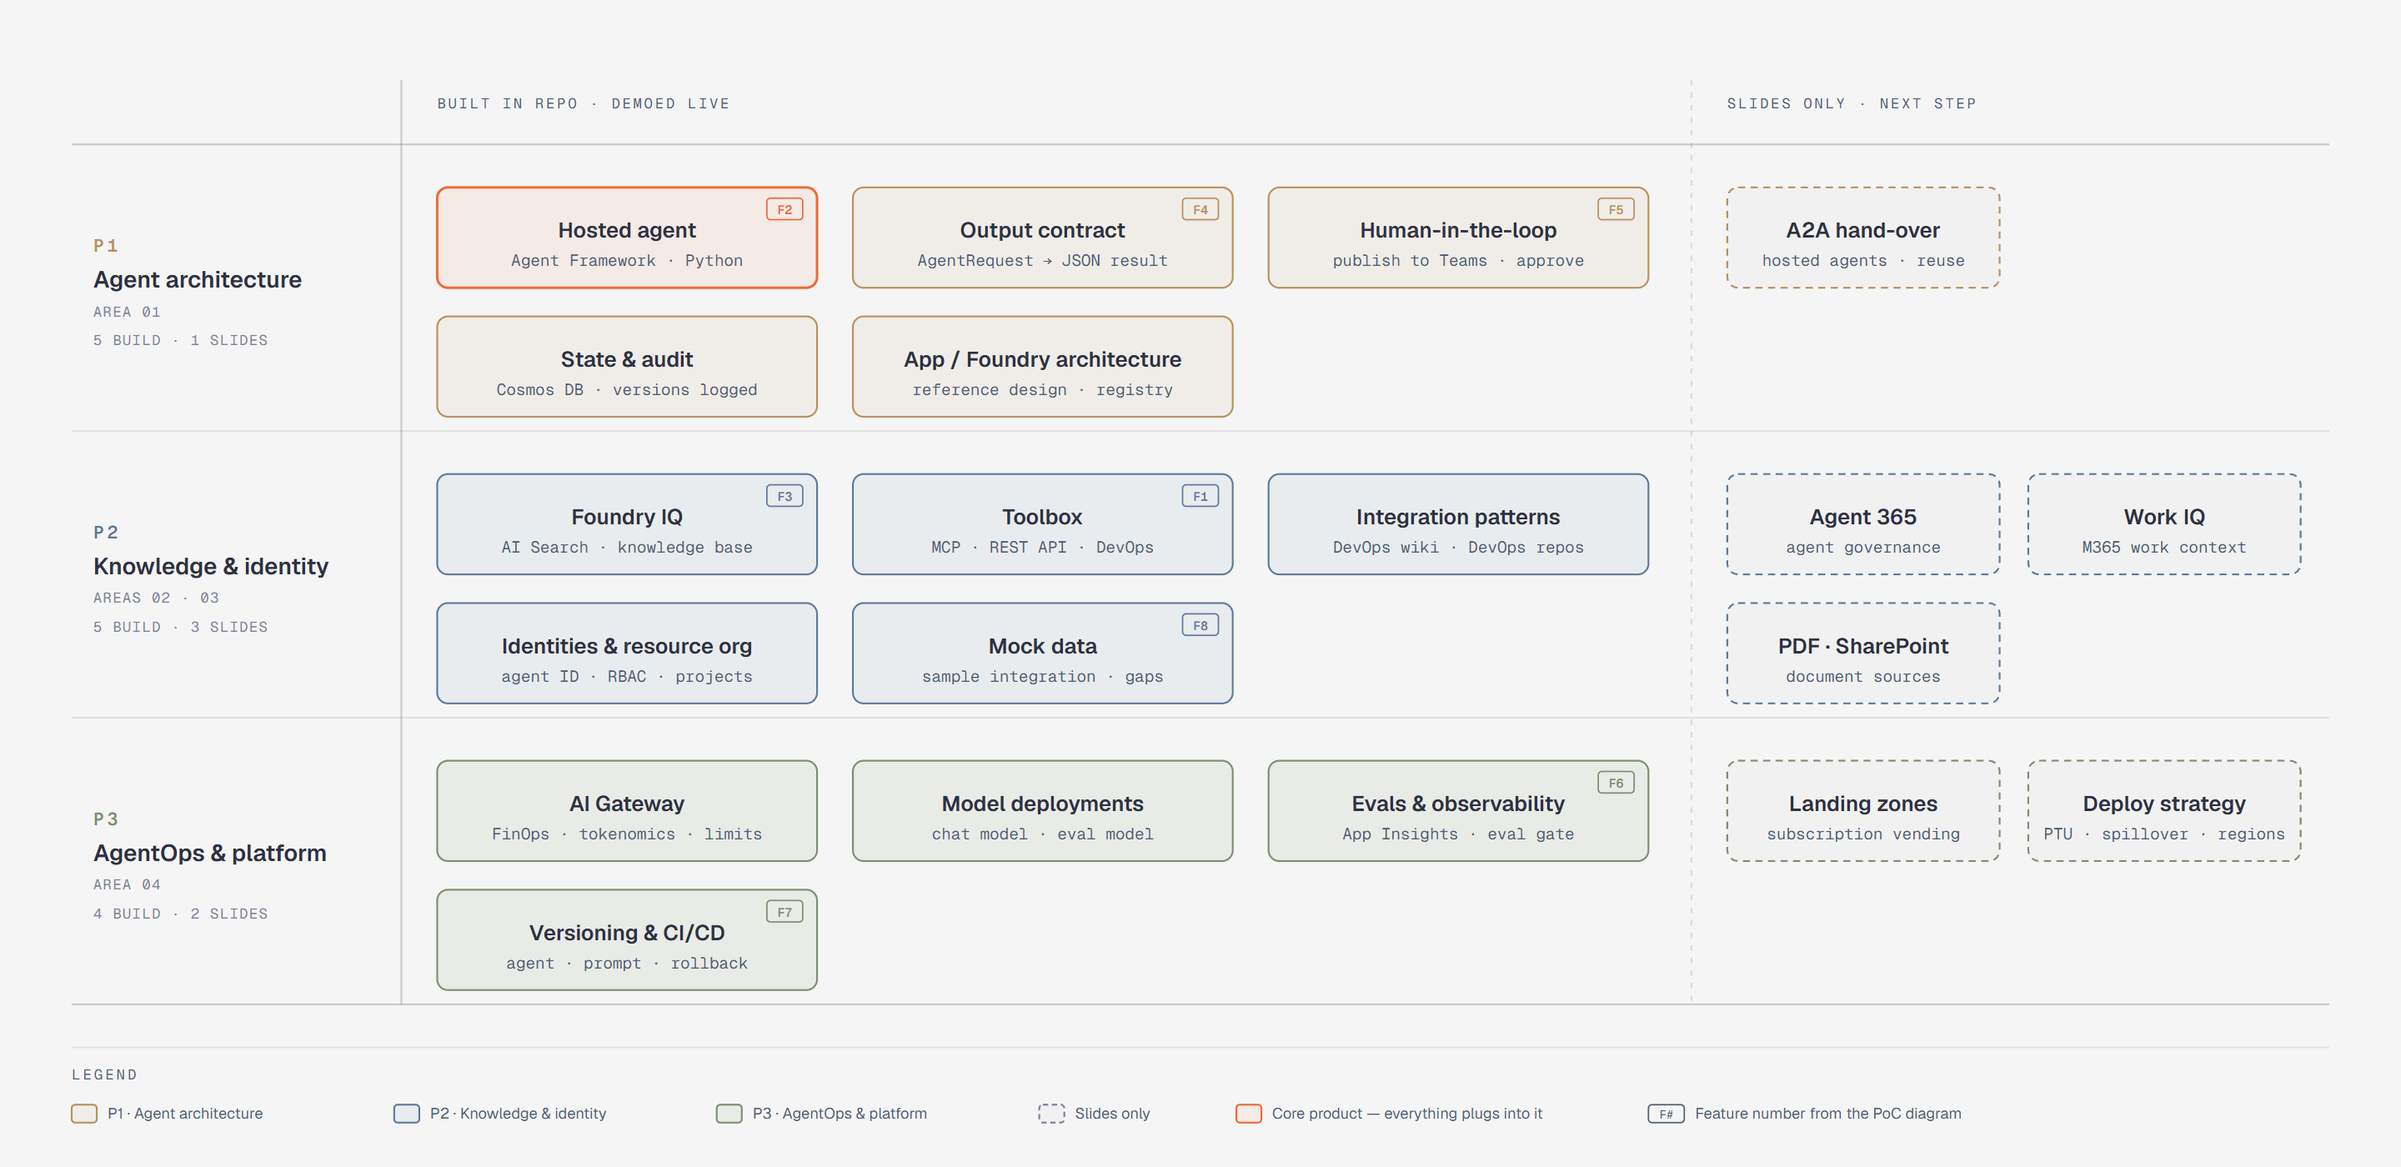
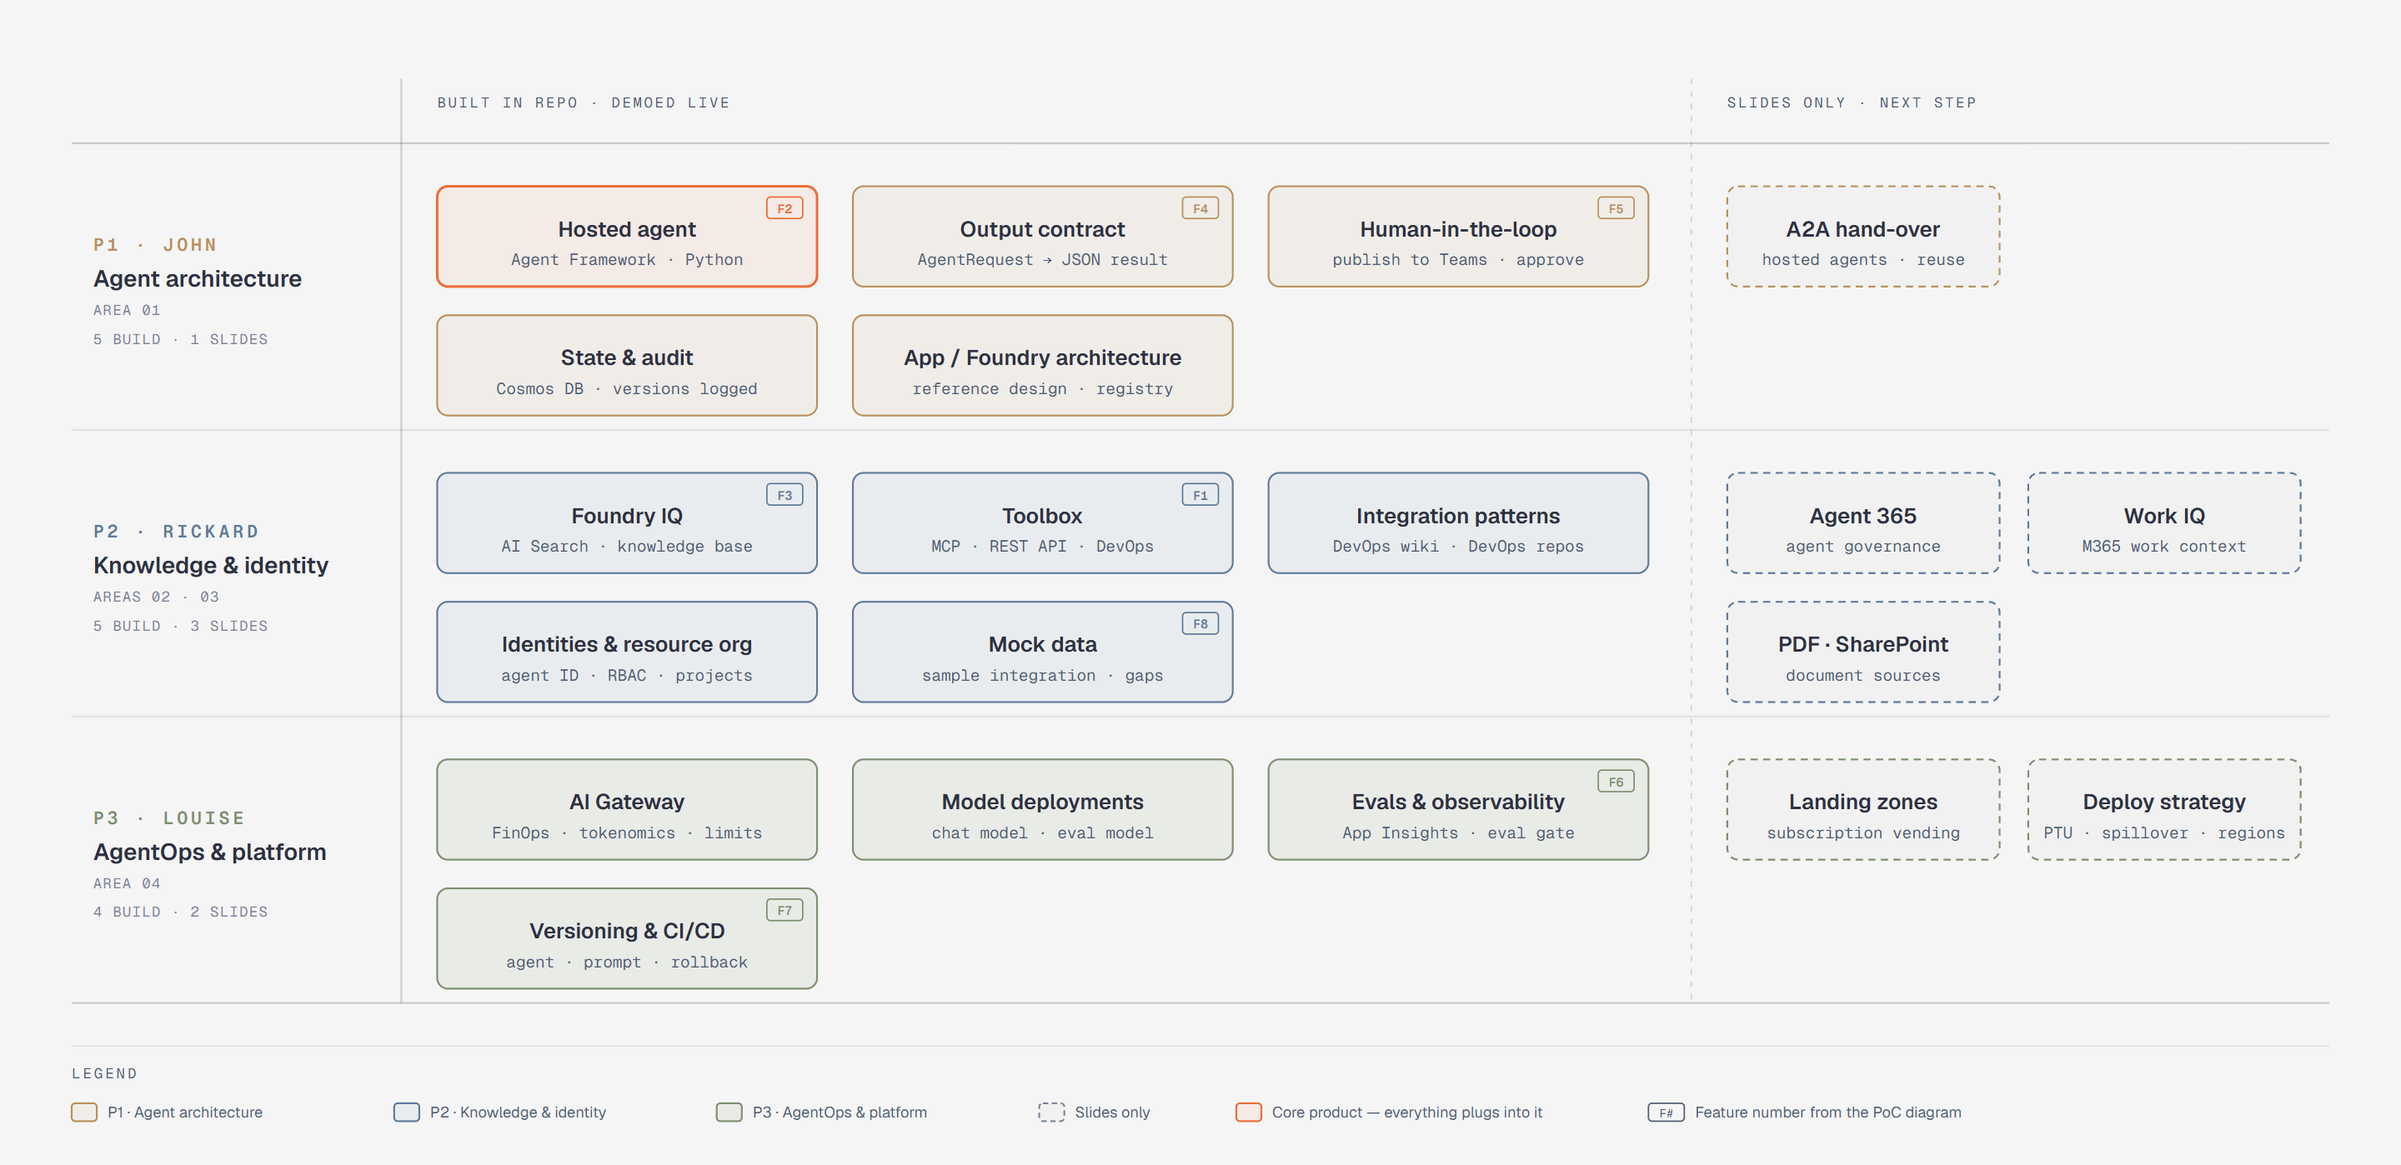
docs: name swimlane owners (P1 John, P2 Rickard, P3 Louise)
Fill CODEOWNERS with real handles, name owners in ADR 0017, the
feature map, agenda, risks, area READMEs, README and the swimlane
diagram (HTML + re-rendered PNG).

Copilot-Session: 4466360d-f2b7-457a-87e8-3b3d5c88d671

diff --git a/docs/diagrams/feature-swimlanes.html b/docs/diagrams/feature-swimlanes.html
@@ -65,7 +65,7 @@
       <line x1="40" y1="560" x2="1300" y2="560" stroke="rgba(45,49,66,0.22)" stroke-width="1"/>
       <line x1="224" y1="44" x2="224" y2="560" stroke="rgba(45,49,66,0.22)" stroke-width="1"/>
       <line x1="944" y1="44" x2="944" y2="560" stroke="rgba(45,49,66,0.14)" stroke-width="1" stroke-dasharray="3,4"/>
-      <text x="52" y="140" fill="#b8915a" font-size="10" font-weight="600" font-family="'Geist Mono', monospace" letter-spacing="0.18em">P1</text>
+      <text x="52" y="140" fill="#b8915a" font-size="10" font-weight="600" font-family="'Geist Mono', monospace" letter-spacing="0.18em">P1 · JOHN</text>
       <text x="52" y="160" fill="#2d3142" font-size="13" font-weight="600" font-family="'Geist', sans-serif">Agent architecture</text>
       <text x="52" y="176" fill="#7a8399" font-size="8" font-family="'Geist Mono', monospace" letter-spacing="0.08em">AREA 01</text>
       <text x="52" y="192" fill="#7a8399" font-size="8" font-family="'Geist Mono', monospace" letter-spacing="0.08em">5 BUILD · 1 SLIDES</text>
@@ -99,7 +99,7 @@
       <rect x="964" y="104" width="152" height="56" rx="6" fill="rgba(45,49,66,0.02)" stroke="#b8915a" stroke-width="1" stroke-dasharray="4,3"/>
       <text x="1040.0" y="132" fill="#2d3142" font-size="12" font-weight="600" font-family="'Geist', sans-serif" text-anchor="middle">A2A hand-over</text>
       <text x="1040.0" y="148" fill="#4f5d75" font-size="9" font-family="'Geist Mono', monospace" text-anchor="middle">hosted agents · reuse</text>
-      <text x="52" y="300" fill="#5e7a9b" font-size="10" font-weight="600" font-family="'Geist Mono', monospace" letter-spacing="0.18em">P2</text>
+      <text x="52" y="300" fill="#5e7a9b" font-size="10" font-weight="600" font-family="'Geist Mono', monospace" letter-spacing="0.18em">P2 · RICKARD</text>
       <text x="52" y="320" fill="#2d3142" font-size="13" font-weight="600" font-family="'Geist', sans-serif">Knowledge &amp; identity</text>
       <text x="52" y="336" fill="#7a8399" font-size="8" font-family="'Geist Mono', monospace" letter-spacing="0.08em">AREAS 02 · 03</text>
       <text x="52" y="352" fill="#7a8399" font-size="8" font-family="'Geist Mono', monospace" letter-spacing="0.08em">5 BUILD · 3 SLIDES</text>
@@ -141,7 +141,7 @@
       <rect x="964" y="336" width="152" height="56" rx="6" fill="rgba(45,49,66,0.02)" stroke="#5e7a9b" stroke-width="1" stroke-dasharray="4,3"/>
       <text x="1040.0" y="364" fill="#2d3142" font-size="12" font-weight="600" font-family="'Geist', sans-serif" text-anchor="middle">PDF · SharePoint</text>
       <text x="1040.0" y="380" fill="#4f5d75" font-size="9" font-family="'Geist Mono', monospace" text-anchor="middle">document sources</text>
-      <text x="52" y="460" fill="#7c8f6f" font-size="10" font-weight="600" font-family="'Geist Mono', monospace" letter-spacing="0.18em">P3</text>
+      <text x="52" y="460" fill="#7c8f6f" font-size="10" font-weight="600" font-family="'Geist Mono', monospace" letter-spacing="0.18em">P3 · LOUISE</text>
       <text x="52" y="480" fill="#2d3142" font-size="13" font-weight="600" font-family="'Geist', sans-serif">AgentOps &amp; platform</text>
       <text x="52" y="496" fill="#7a8399" font-size="8" font-family="'Geist Mono', monospace" letter-spacing="0.08em">AREA 04</text>
       <text x="52" y="512" fill="#7a8399" font-size="8" font-family="'Geist Mono', monospace" letter-spacing="0.08em">4 BUILD · 2 SLIDES</text>

diff --git a/docs/workshop/agenda.md b/docs/workshop/agenda.md
@@ -7,30 +7,30 @@
 The agenda follows the three **swimlanes** in the [feature map](feature-map.md) and the [feature swimlanes diagram](../diagrams/feature-swimlanes.html) ([PNG](../diagrams/feature-swimlanes.png)). Each presenter owns one block. **Built** features are demoed live, and **slides-only** topics close each block as next steps ([next-steps.md](../next-steps.md)). F-tags (F1–F8) match the diagrams.
 
 **Presenters**
-- **P1**: Agent architecture (area 01)
-- **P2**: Knowledge & identity (areas 02 + 03)
-- **P3**: AgentOps & platform (area 04)
+- **P1** John ([@johnsward](https://github.com/johnsward)): Agent architecture (area 01)
+- **P2** Rickard ([@wdhm](https://github.com/wdhm)): Knowledge & identity (areas 02 + 03)
+- **P3** Louise ([@llandinl](https://github.com/llandinl)): AgentOps & platform (area 04)
 
 ## Overview
 
 | Time | Block | Lead |
 |---|---|---|
-| 09:00–09:15 | Welcome & framing | P1 |
-| 09:15–09:35 | Live end-to-end demo | P1 |
-| 09:35–10:15 | **P1 · Agent architecture** | P1 |
+| 09:00–09:15 | Welcome & framing | P1 · John |
+| 09:15–09:35 | Live end-to-end demo | P1 · John |
+| 09:35–10:15 | **P1 · Agent architecture** | P1 · John |
 | 10:15–10:30 | ☕ Break | |
-| 10:30–11:10 | **P2 · Knowledge & identity** | P2 |
-| 11:10–11:50 | **P3 · AgentOps & platform** | P3 |
+| 10:30–11:10 | **P2 · Knowledge & identity** | P2 · Rickard |
+| 11:10–11:50 | **P3 · AgentOps & platform** | P3 · Louise |
 | 11:50–12:00 | Fork & adapt + Q&A | All |
 
-## 09:00–09:35 · Opening (P1)
+## 09:00–09:35 · Opening (P1 · John)
 
 | Time | Item | Type | Content |
 |---|---|---|---|
 | 09:00–09:15 | Welcome & framing | Slides | Why a *pattern*, not just an agent. The Documentation Agent story, the [reference architecture](../diagrams/reference-architecture.html), and what you take home. |
 | 09:15–09:35 | Live end-to-end demo | Demo | PR on the sample integration → `AgentResult` → Teams approval → wiki updated |
 
-## 09:35–10:15 · P1 · Agent architecture
+## 09:35–10:15 · P1 · Agent architecture · John
 
 | Time | Feature | F | Type | Content |
 |---|---|---|---|---|
@@ -41,7 +41,7 @@ The agenda follows the three **swimlanes** in the [feature map](feature-map.md) 
 | 10:05–10:10 | State & audit | – | Demo | Cosmos DB run record: versions, decision, approver |
 | 10:10–10:15 | *A2A hand-over* | – | Slides | Analyst + Publisher agent with separate identities ([#43](https://github.com/wdhm/foundry-agentic-pattern/issues/43)) |
 
-## 10:30–11:10 · P2 · Knowledge & identity
+## 10:30–11:10 · P2 · Knowledge & identity · Rickard
 
 | Time | Feature | F | Type | Content |
 |---|---|---|---|---|
@@ -52,7 +52,7 @@ The agenda follows the three **swimlanes** in the [feature map](feature-map.md) 
 | 10:57–11:03 | Identities & resource org | – | Demo | Agent ID, least privilege per source, project vs agent scope ([#22](https://github.com/wdhm/foundry-agentic-pattern/issues/22), [#45](https://github.com/wdhm/foundry-agentic-pattern/issues/45)) |
 | 11:03–11:10 | *Agent 365 · Work IQ · PDF/SharePoint* | – | Slides | Fleet governance across M365 ([#46](https://github.com/wdhm/foundry-agentic-pattern/issues/46)), work context ([#47](https://github.com/wdhm/foundry-agentic-pattern/issues/47)), document sources ([#48](https://github.com/wdhm/foundry-agentic-pattern/issues/48)) |
 
-## 11:10–11:50 · P3 · AgentOps & platform
+## 11:10–11:50 · P3 · AgentOps & platform · Louise
 
 | Time | Feature | F | Type | Content |
 |---|---|---|---|---|

diff --git a/docs/risks.md b/docs/risks.md
@@ -4,10 +4,10 @@ Verified risks and open questions for Agentic Pattern v1. Each risk has a status
 
 | ID | Topic | Status | Owner | ADRs | Spike |
 |---|---|---|---|---|---|
-| [R1](#r1) | Tool approval enforcement and approval UX in Teams | 🟡 Partly verified, spike needed | P1 | [0008](adr/0008-human-in-the-loop-approval.md), [0009](adr/0009-hosted-agent-runtime.md), [0016](adr/0016-state-and-audit-cosmos-db.md) | [#1](https://github.com/wdhm/foundry-agentic-pattern/issues/1) |
-| [R2](#r2) | Publish hosted agent to Teams, and rollback via `version_selector` | 🟢 OK (verify in spike) | P3 | [0008](adr/0008-human-in-the-loop-approval.md), [0009](adr/0009-hosted-agent-runtime.md), [0013](adr/0013-evaluation-gate-in-ci.md), [0018](adr/0018-region-sweden-central.md) | [#4](https://github.com/wdhm/foundry-agentic-pattern/issues/4) |
-| [R3](#r3) | Agent identity lifecycle and Azure DevOps access | 🟠 Spike needed | P2 | [0012](adr/0012-agent-identity-and-rbac.md), [0014](adr/0014-infrastructure-scope.md) | [#2](https://github.com/wdhm/foundry-agentic-pattern/issues/2) |
-| [R4](#r4) | AI Gateway token limits and per-agent cost attribution | 🟡 Design adjusted | P3 | [0014](adr/0014-infrastructure-scope.md) | [#3](https://github.com/wdhm/foundry-agentic-pattern/issues/3) |
+| [R1](#r1) | Tool approval enforcement and approval UX in Teams | 🟡 Partly verified, spike needed | P1 · John | [0008](adr/0008-human-in-the-loop-approval.md), [0009](adr/0009-hosted-agent-runtime.md), [0016](adr/0016-state-and-audit-cosmos-db.md) | [#1](https://github.com/wdhm/foundry-agentic-pattern/issues/1) |
+| [R2](#r2) | Publish hosted agent to Teams, and rollback via `version_selector` | 🟢 OK (verify in spike) | P3 · Louise | [0008](adr/0008-human-in-the-loop-approval.md), [0009](adr/0009-hosted-agent-runtime.md), [0013](adr/0013-evaluation-gate-in-ci.md), [0018](adr/0018-region-sweden-central.md) | [#4](https://github.com/wdhm/foundry-agentic-pattern/issues/4) |
+| [R3](#r3) | Agent identity lifecycle and Azure DevOps access | 🟠 Spike needed | P2 · Rickard | [0012](adr/0012-agent-identity-and-rbac.md), [0014](adr/0014-infrastructure-scope.md) | [#2](https://github.com/wdhm/foundry-agentic-pattern/issues/2) |
+| [R4](#r4) | AI Gateway token limits and per-agent cost attribution | 🟡 Design adjusted | P3 · Louise | [0014](adr/0014-infrastructure-scope.md) | [#3](https://github.com/wdhm/foundry-agentic-pattern/issues/3) |
 
 ---
 

diff --git a/docs/workshop/feature-map.md b/docs/workshop/feature-map.md
@@ -1,6 +1,6 @@
 # Feature map: three swimlanes
 
-Every workshop feature has **one owner** (P1, P2 or P3). It is either **built in the repo and demoed live**, or covered **on slides only** as a next step. The feature numbers **F1–F8** are the same as in the diagrams.
+Every workshop feature has **one owner**: **P1** John ([@johnsward](https://github.com/johnsward)), **P2** Rickard ([@wdhm](https://github.com/wdhm)) or **P3** Louise ([@llandinl](https://github.com/llandinl)). It is either **built in the repo and demoed live**, or covered **on slides only** as a next step. The feature numbers **F1–F8** are the same as in the diagrams.
 
 | Diagram | HTML | PNG |
 |---|---|---|
@@ -24,7 +24,7 @@ Every workshop feature has **one owner** (P1, P2 or P3). It is either **built in
 | F7 | Versioning & CI/CD | P3 |
 | F8 | Mock data | P2 |
 
-## P1: Agent architecture (area 01)
+## P1: Agent architecture (area 01) · John
 
 | Feature | F-tag | Built/Slides | Issue(s) |
 |---|---|---|---|
@@ -35,7 +35,7 @@ Every workshop feature has **one owner** (P1, P2 or P3). It is either **built in
 | App / Foundry architecture + fleet registry | – | Built | [#42](https://github.com/wdhm/foundry-agentic-pattern/issues/42), [#38](https://github.com/wdhm/foundry-agentic-pattern/issues/38) |
 | A2A hand-over | – | Slides | [#43](https://github.com/wdhm/foundry-agentic-pattern/issues/43) |
 
-## P2: Knowledge & identity (areas 02 + 03)
+## P2: Knowledge & identity (areas 02 + 03) · Rickard
 
 | Feature | F-tag | Built/Slides | Issue(s) |
 |---|---|---|---|
@@ -48,7 +48,7 @@ Every workshop feature has **one owner** (P1, P2 or P3). It is either **built in
 | Work IQ (Microsoft 365 work context) | – | Slides | [#47](https://github.com/wdhm/foundry-agentic-pattern/issues/47) |
 | PDF · SharePoint (document sources) | – | Slides | [#48](https://github.com/wdhm/foundry-agentic-pattern/issues/48) |
 
-## P3: AgentOps & platform (area 04)
+## P3: AgentOps & platform (area 04) · Louise
 
 | Feature | F-tag | Built/Slides | Issue(s) |
 |---|---|---|---|

diff --git a/docs/adr/0017-ownership-model.md b/docs/adr/0017-ownership-model.md
@@ -2,7 +2,7 @@
 
 - **Status:** Accepted
 - **Date:** 2026-10-06
-- **Deciders:** P1, P2, P3
+- **Deciders:** John ([@johnsward](https://github.com/johnsward)), Rickard ([@wdhm](https://github.com/wdhm)), Louise ([@llandinl](https://github.com/llandinl))
 - **Related:** [CODEOWNERS](../../.github/CODEOWNERS), [workshop agenda](../workshop/agenda.md)
 
 ## Context
@@ -11,13 +11,13 @@ Three people build and deliver the pattern. Clear ownership avoids gaps and dupl
 
 ## Decision
 
-| Track | Owner | Scope |
-|---|---|---|
-| **Agent architecture** | **P1** | Hosted agent, contract, state/Cosmos DB, Teams HITL |
-| **Knowledge & identity** | **P2** | Foundry IQ, Toolbox/MCP, Agent ID, RBAC, mock data |
-| **AgentOps & platform** | **P3** | Infra/azd, AI Gateway/FinOps, evals, CI/CD, rollback, tracing |
+| Track | Lane | Owner | Scope |
+|---|---|---|---|
+| **Agent architecture** | **P1** | John ([@johnsward](https://github.com/johnsward)) | Hosted agent, contract, state/Cosmos DB, Teams HITL |
+| **Knowledge & identity** | **P2** | Rickard ([@wdhm](https://github.com/wdhm)) | Foundry IQ, Toolbox/MCP, Agent ID, RBAC, mock data |
+| **AgentOps & platform** | **P3** | Louise ([@llandinl](https://github.com/llandinl)) | Infra/azd, AI Gateway/FinOps, evals, CI/CD, rollback, tracing |
 
-- Ownership is mirrored in `CODEOWNERS` and in the GitHub labels `area:architecture`, `area:knowledge-identity` and `area:agentops-platform`.
+- Ownership is mirrored in `CODEOWNERS`, in the issue assignees, and in the GitHub labels `area:architecture`, `area:knowledge-identity` and `area:agentops-platform`.
 - Each owner presents their track in the workshop.
 
 ## Alternatives considered

diff --git a/README.md b/README.md
@@ -82,7 +82,7 @@ The workshop reference architecture is also available as a diagram ([HTML](docs/
 
 ## Feature map
 
-Features are grouped into three swimlanes, each with one owner: **P1** Agent architecture, **P2** Knowledge & identity, **P3** AgentOps & platform. The **F1–F8** tags match the diagrams. Items marked *slides* are covered as next steps only. For the full table with issues, see [docs/workshop/feature-map.md](docs/workshop/feature-map.md), and for the swimlane diagram see [HTML](docs/diagrams/feature-swimlanes.html) · [PNG](docs/diagrams/feature-swimlanes.png).
+Features are grouped into three swimlanes, each with one owner: **P1** Agent architecture (John, [@johnsward](https://github.com/johnsward)), **P2** Knowledge & identity (Rickard, [@wdhm](https://github.com/wdhm)), **P3** AgentOps & platform (Louise, [@llandinl](https://github.com/llandinl)). The **F1–F8** tags match the diagrams. Items marked *slides* are covered as next steps only. For the full table with issues, see [docs/workshop/feature-map.md](docs/workshop/feature-map.md), and for the swimlane diagram see [HTML](docs/diagrams/feature-swimlanes.html) · [PNG](docs/diagrams/feature-swimlanes.png).
 
 | Lane | F | Capability | How it is implemented | ADR |
 |---|---|---|---|---|

diff --git a/infra/README.md b/infra/README.md
@@ -22,4 +22,4 @@ Default region: **Sweden Central** ([ADR 0018](../docs/adr/0018-region-sweden-ce
 
 Landing zone and subscription vending, Agent 365, Work IQ, and advanced model deployment strategy (PTU/spillover/multi-region) are covered in [docs/next-steps.md](../docs/next-steps.md).
 
-**Owner:** P3 (AgentOps & platform)
+**Owner:** P3 (AgentOps & platform): Louise ([@llandinl](https://github.com/llandinl))

diff --git a/src/contracts/README.md b/src/contracts/README.md
@@ -29,4 +29,4 @@ The **agent contract**: Pydantic models for `AgentRequest` and `AgentResult`. Th
 - Breaking changes bump `contract_version` and require an ADR.
 - Generated JSON Schema is committed and checked in CI. A schema that drifts from the models fails the build.
 
-**Owner:** P1 (Agent architecture)
+**Owner:** P1 (Agent architecture): John ([@johnsward](https://github.com/johnsward))

diff --git a/src/tools/README.md b/src/tools/README.md
@@ -20,4 +20,4 @@ Tool and API integrations exposed to agents through a Foundry **Toolbox** (MCP) 
 - Least privilege per source ([ADR 0012](../../docs/adr/0012-agent-identity-and-rbac.md)).
 - The wiki commit message includes the run ID and the approver.
 
-**Owner:** P2 (Knowledge & identity)
+**Owner:** P2 (Knowledge & identity): Rickard ([@wdhm](https://github.com/wdhm))

diff --git a/data/README.md b/data/README.md
@@ -19,4 +19,4 @@ A **mock data generator** and seed data that make the demo reproducible in any t
 - **Deterministic.** Fixed seeds make eval results comparable between versions.
 - **Fictional.** No real customer, system or personal data.
 
-**Owner:** P2 (Knowledge & identity)
+**Owner:** P2 (Knowledge & identity): Rickard ([@wdhm](https://github.com/wdhm))

diff --git a/.github/workflows/README.md b/.github/workflows/README.md
@@ -15,4 +15,4 @@ GitHub Actions workflows ([ADR 0003](../../docs/adr/0003-github-for-code-and-cic
 
 Authentication to Azure uses **OIDC workload identity federation**, with no stored secrets.
 
-**Owner:** P3 (AgentOps & platform)
+**Owner:** P3 (AgentOps & platform): Louise ([@llandinl](https://github.com/llandinl))

diff --git a/samples/sample-integration/README.md b/samples/sample-integration/README.md
@@ -18,4 +18,4 @@ The sample is designed so that typical documentation drift can be **planted** on
 
 All names, systems and data are fictional.
 
-**Owner:** P2 (Knowledge & identity: mock data)
+**Owner:** P2 (Knowledge & identity: mock data): Rickard ([@wdhm](https://github.com/wdhm))
